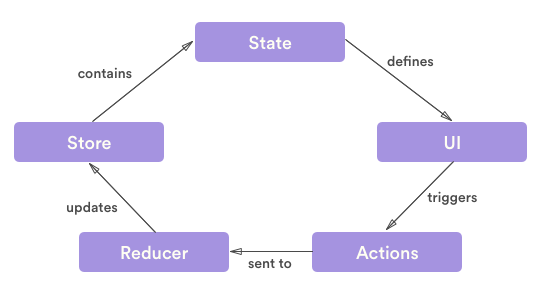
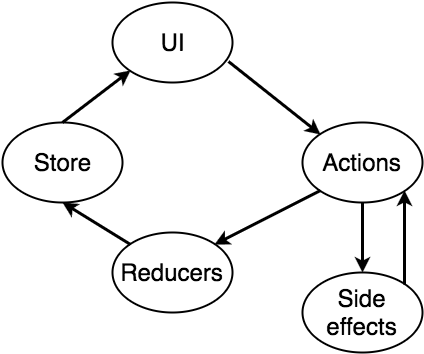
:wrench: various adjustments and tweaks, change redux-data-flow image

diff --git a/presentation/index.jsx b/presentation/index.jsx
@@ -162,9 +162,9 @@ export default () => (
         bgDarken="0.7"
         bgImage={ images.lego }
         notes={ `
-          It's the most fundamental part of React, first-class citizen.
-          It's like lego-cubes you built your interface from.
-          They encapsulate DOM-structure so you don't have to know about it from outside.
+          So whate does React bring to us? First of all: components, the most fundamental part of
+          React, first-class citizen. It's like lego-cubes you built your interface from.
+          They encapsulate DOM-structure and styles, just like templates do
           They encapsulate DOM-logic, so you just work with the state/API and components do the
           rest inside them.
           They automate and optimize all DOM interactions, so you don't have to do manual work and
@@ -175,13 +175,13 @@ export default () => (
         textColor="main"
         transition={ [ 'fade' ] }
       >
-        <Heading size={ 4 } textColor="heading">Components</Heading>
+        <Heading size={ 4 } textColor="heading">React</Heading>
         <List>
           <Appear>
-            <ListItem>build UI like with Lego cubes</ListItem>
+            <ListItem>build UI with components like with Lego cubes</ListItem>
           </Appear>
           <Appear>
-            <ListItem>encapsulated DOM structure</ListItem>
+            <ListItem>encapsulated DOM structure and styles</ListItem>
           </Appear>
           <Appear>
             <ListItem>encapsulated DOM logic</ListItem>
@@ -293,8 +293,8 @@ export default () => (
           to the component through props — which is basically just like arguments in functions.
           So if we take this span from the example before, we can transform it into its own
           component, but the difference now is that it doesn't have its own state, but instead
-          receives everything from the parent component through props. These components can be
-          described as functions and basically look like templates.
+          receives everything from the parent component through props. By the way if you don't need
+          to store the state inside component, you can use function instead of class.
         ` }
         ranges={ [
           { loc: [ 0, 3 ], title: 'Nested components and props' },
@@ -331,7 +331,7 @@ export default () => (
         textColor="main"
         transition={ [ 'fade' ] }
       >
-        <Heading size={ 4 } textColor="heading">Talking to the DOM</Heading><br />
+        <Heading size={ 4 } textColor="heading">Rerendering</Heading><br />
         <Example />
       </Slide>
       <Slide
@@ -360,7 +360,7 @@ export default () => (
         textColor="main"
         transition={ [ 'slide' ] }
       >
-        <Heading size={ 4 } textColor="heading">State management — why bother?</Heading>
+        <Heading size={ 4 } textColor="heading">Application store</Heading>
         <List>
           <Appear>
             <ListItem>separate business logic from presentation</ListItem>
@@ -373,6 +373,9 @@ export default () => (
           </Appear>
           <Appear>
             <ListItem>data persistency/cache</ListItem>
+          </Appear>
+          <Appear>
+            <ListItem>decoupling and testability</ListItem>
           </Appear>
         </List>
       </Slide>
@@ -433,7 +436,7 @@ export default () => (
           everything much simpler because you have only one source of truth and it becomes really
           easy to find the data you need.
           The second one is that state in that single store is read-only. You can not change it
-          directly. You can change your data only through special signals called actions.
+          directly. You can change your data only through special events called actions.
           And finally all the changes are made with pure functions. They called reducers which is
           just a fancy word for functions changing data and then returning changed data back.
         ` }
@@ -445,35 +448,28 @@ export default () => (
           <Appear>
             <ListItem>
               <S type="bold">Single source of truth</S>
-              : The whole state of your application is stored just in one place
             </ListItem>
           </Appear>
           <Appear>
             <ListItem>
-              <S type="bold">State is read-only</S>
-              : You can not change it from outside directly
+              <S type="bold">State is read-only (immutable)</S>
             </ListItem>
           </Appear>
           <Appear>
             <ListItem>
               <S type="bold">Changes are made with pure-functions</S>
-              : They called reducers and they react to the actions sent by components to change the
-              state
             </ListItem>
           </Appear>
         </List>
       </Slide>
       <Slide
         notes={ `
-          So data flow might look a bit complex at the first glance, but actually it's really
-          simple.
-          We send data to the action creator.
-          Send after action is created from that data we dispatch it to the Root reducer,
-          along with current state.
-          Root reducer sends it to all small reducers.
-          Small reducers return new data back to the root reducer.
-          Root reducer sends this data to the store.
-          And the store sends it back to React component.
+          So data flow is essentially simple:
+          UI creates actions which are being sent to reducers.
+          Along the line side effects can be involved like calling an API or interacting with
+          a router or a browser.
+          When reducers receives an action, they transform data in the store and then that updated
+          data is being sent back to UI.
         ` }
         textColor="main"
         transition={ [ 'slide' ] }
